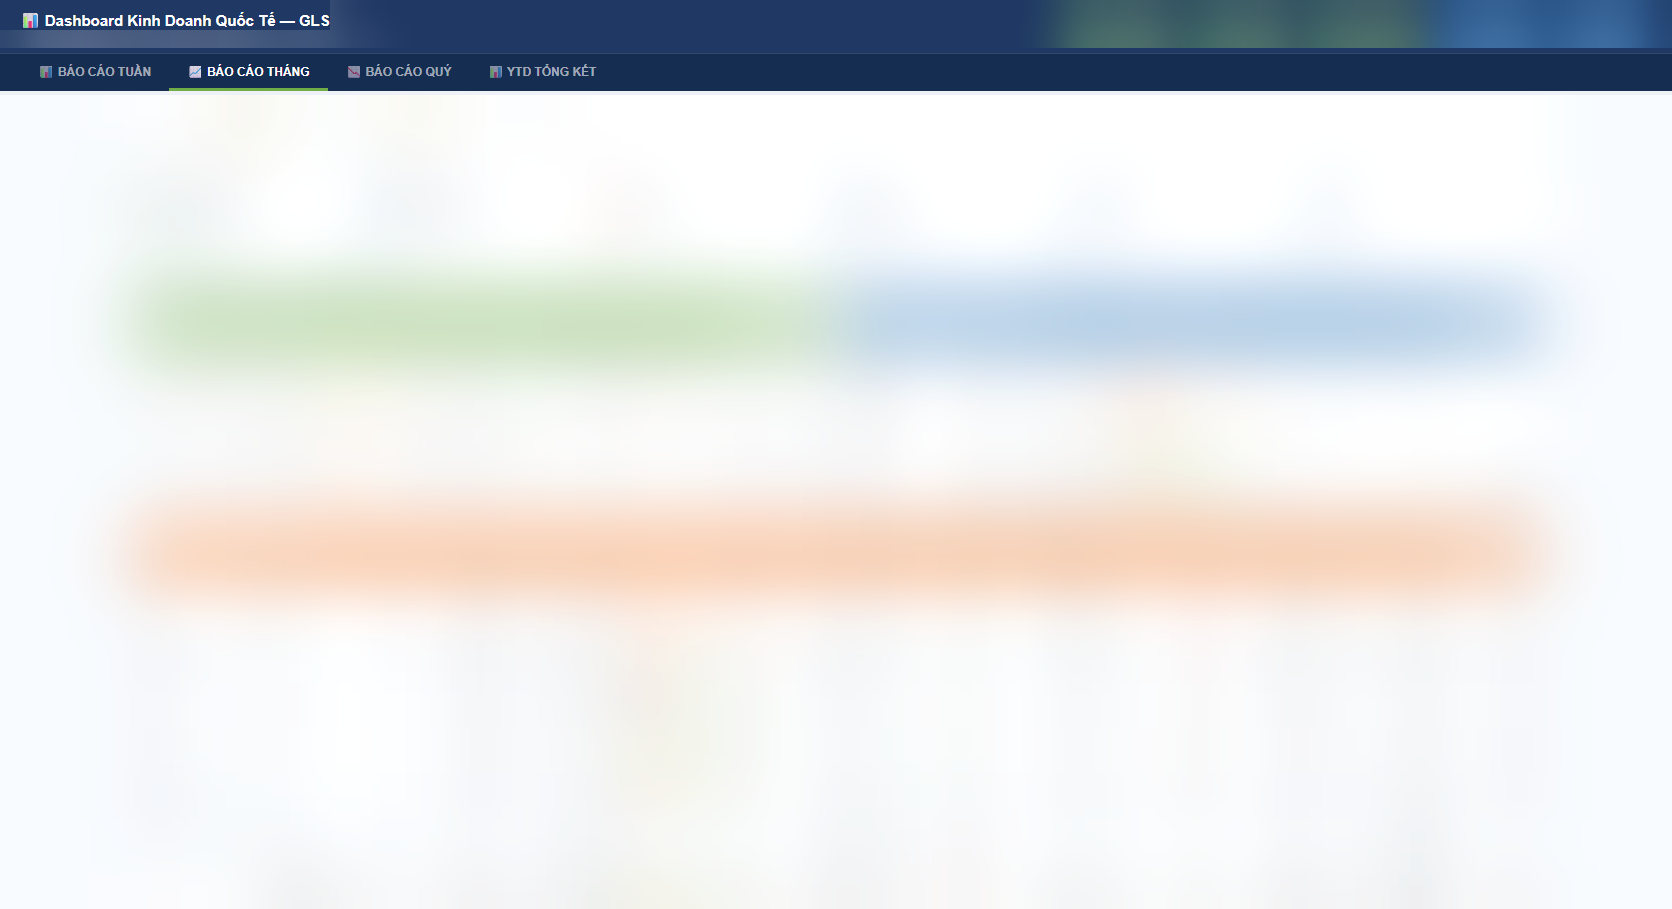
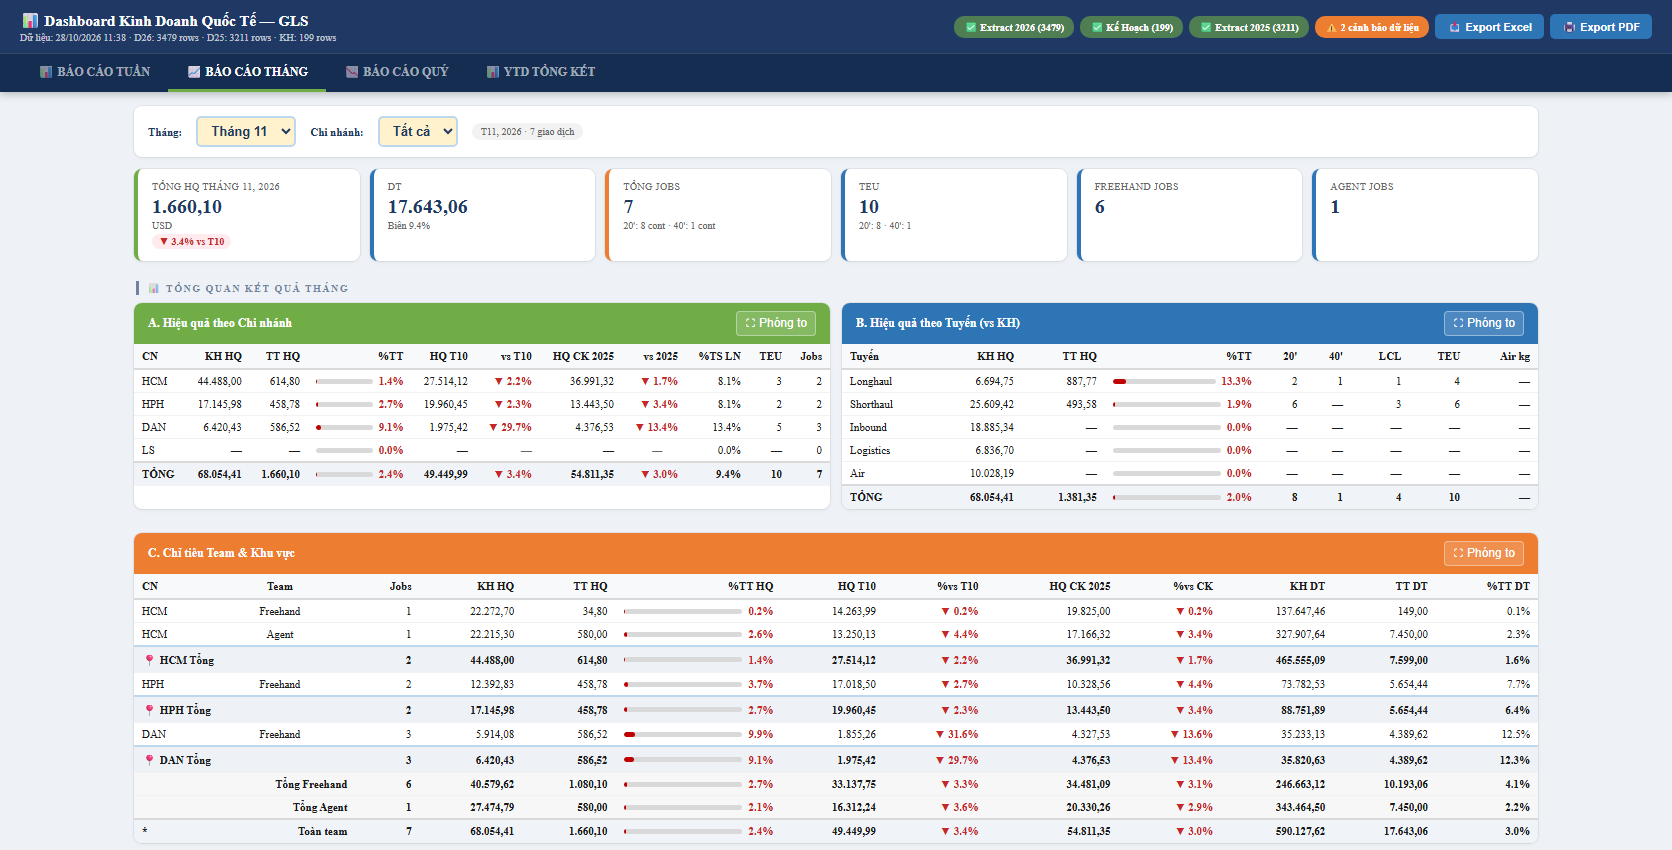
Use real dashboard screenshots and drop confidentiality labels
- Replace blurred dashboard images with real weekly, monthly and YTD screenshots
- Remove Confidential and blurred notices, show images uncropped
- Fix YTD description to match the current dashboard

diff --git a/project/index.html b/project/index.html
@@ -262,20 +262,18 @@ In conclusion, the application of <strong>XGBoost</strong> helps to:
                 cover: "../assets/image/covers/cover-gls.jpg",
                 subtitle: "One dashboard replaced a weekly PowerPoint routine for the International department: weekly, monthly and year-to-date sales by branch, route, salesman and agent, refreshed from a single export.",
                 tags: ["Python", "Google Sheets API", "Google Colab", "HTML/CSS/JS"],
-                imageCaption: "Weekly report view. Figures are blurred for confidentiality.",
+                imageCaption: "Weekly report view.",
                 highlights: [["~1 day → ~2 h", "Time to produce the weekly report, before and after."], ["20+", "Report tables, all built from shared metric definitions."], ["~2 weeks", "From first export to delivery, 24/07 to 05/08/2026."], ["Accepted", "Reviewed and formally accepted by the department."]],
                 conclusionTitle: "Strengths and limitations",
                 
                 title: 'Weekly sales dashboard for the International department',
                 image: '../project image 3/dashboard-weekly-view.png',
-                confidentialImages: true,
                 description: `
                     <div class="executive-summary">
                         <h3 style="color: var(--accent); margin-bottom: 1.5rem; font-size: 2.2rem; font-family: var(--font-display);"><i class="fas fa-gauge-high" style="margin-right: 1rem;"></i> Executive Summary</h3>
                         <p style="font-size: 1.6rem; line-height: 1.8; color: var(--muted); margin-bottom: 1.5rem;">Built and delivered a standalone reporting dashboard for the International department at <strong>Global Logistics Service Co., Ltd (GLS)</strong>, covering weekly, monthly, and Year-to-Date (YTD) sales performance across branches, trade routes, salemen, and agents. Acted as the <strong>Data Analyst</strong> on the project: cleaning, metrics, automation and the dashboard itself.</p>
                         <p style="font-size: 1.6rem; line-height: 1.8; color: var(--muted); margin-bottom: 0;"><strong>Timeframe:</strong> 24/07/2026 – 05/08/2026 (~2 weeks, end-to-end) &nbsp;|&nbsp; <strong>Tools used:</strong> Google Sheets, Google Colab, Python (automation, Google API), HTML/CSS/JS (standalone dashboard)</p>
                     </div>
-                    <p style="font-size: 1.4rem; color: var(--muted); font-style: italic;">Note: the screenshots below are from the real, delivered dashboard. All figures, names, and other business-sensitive details have been blurred for confidentiality — only the interface and structure are shown.</p>
                 `,
                 databaseSectionTitle: 'Data collection and cleaning',
                 analysisSectionTitle: 'Dashboard architecture and build',
@@ -380,7 +378,7 @@ Every data refresh follows the same checklist before being handed off:
 </ul>
 
 <strong style="font-size: 2.0rem; color: var(--accent); display: inline-block; margin-bottom: 1rem; margin-top: 2rem;"><i class="fas fa-hand-pointer" style="margin-right: 0.8rem;"></i>Try It Yourself — Interactive Demo</strong><br>
-<p style="margin-bottom: 1rem;">Since the real dashboard's figures are blurred above for confidentiality, here's a small working recreation of its filtering logic — built with the same vanilla-JS approach, using <strong>entirely fictional sample data</strong> (not GLS's real numbers) so you can see the interaction itself. Pick a branch and a week:</p>
+<p style="margin-bottom: 1rem;">Here is a small working recreation of its filtering logic, built the same way with plain JavaScript and <strong>sample data</strong> so you can try the interaction. Pick a branch and a week:</p>
 <div id="gls-demo" class="panel" style="background:var(--card); border:0.15rem solid var(--line); border-radius:1.6rem; padding:2rem;">
     <div style="display:flex; flex-wrap:wrap; gap:1.5rem; margin-bottom:1.5rem;">
         <div>
@@ -412,19 +410,19 @@ Every data refresh follows the same checklist before being handed off:
 <strong style="font-size: 2.0rem; color: var(--accent); display: inline-block; margin-bottom: 1rem; margin-top: 2rem;"><i class="fas fa-calendar-week" style="margin-right: 0.8rem;"></i>Weekly Report View</strong><br>
 Users pick a week and branch from the filter bar; KPI cards and every table below refresh instantly. Branch performance (green header) and route efficiency vs. plan (blue header) sit side by side, with team/region targets (orange header) further down.`,
                 analysisImage: `../project image 3/dashboard-weekly-view.png`,
-                analysisText2: `<p class="table-caption" style="margin-top: -1rem;">Weekly report view — figures blurred for confidentiality.</p>
+                analysisText2: `<p class="table-caption" style="margin-top: -1rem;">Weekly report view.</p>
 <strong style="font-size: 2.0rem; color: var(--accent); display: inline-block; margin-bottom: 1rem; margin-top: 1rem;"><i class="fas fa-calendar-days" style="margin-right: 0.8rem;"></i>Monthly Report View</strong><br>
 Same structure as the Weekly tab, with an added comparison against the previous month and against the same month last year — useful for spotting seasonal shifts.`,
                 analysisImage2: `../project image 3/dashboard-monthly-view.png`,
-                analysisText3: `<p class="table-caption" style="margin-top: -1rem;">Monthly report view — figures blurred for confidentiality.</p>
+                analysisText3: `<p class="table-caption" style="margin-top: -1rem;">Monthly report view.</p>
 <strong style="font-size: 2.0rem; color: var(--accent); display: inline-block; margin-bottom: 1rem; margin-top: 1rem;"><i class="fas fa-chart-simple" style="margin-right: 0.8rem;"></i>YTD Summary Navigator</strong><br>
-The Year-to-Date tab organizes 7 cumulative charts (efficiency by saleman, revenue by branch, margin trends, and more) behind an expandable card grid, keeping the page light until a specific chart is opened.`,
+The Year-to-Date tab accumulates the year month by month: efficiency, revenue and margin by branch, file counts, GFS and LSIP totals, and the commodity mix per branch.`,
                 analysisImage3: `../project image 3/dashboard-ytd-view.png`,
-                analysisText4: `<p class="table-caption" style="margin-top: -1rem;">YTD summary tab — chart contents open on demand.</p>
+                analysisText4: `<p class="table-caption" style="margin-top: -1rem;">YTD summary tab.</p>
 <strong style="font-size: 2.0rem; color: var(--accent); display: inline-block; margin-bottom: 1rem; margin-top: 1.5rem;"><i class="fas fa-lightbulb" style="margin-right: 0.8rem;"></i>What the Dashboard Enables</strong><br>
 Beyond just displaying numbers, the dashboard was designed to support real decision-making for the International team — continuous performance tracking, customer trend visibility, and target tracking per saleman, detailed further below.`,
                 modelingTitle: `Insights and analytical approach`,
-                modelingText: `<p>The value of this project wasn't just building tables — it was structuring the data so that patterns which were invisible in a static monthly PowerPoint became visible every week. A few examples of the analytical lenses the dashboard applies (illustrative, figures blurred):</p>
+                modelingText: `<p>The value of this project wasn't just building tables — it was structuring the data so that patterns which were invisible in a static monthly PowerPoint became visible every week. A few examples of the analytical lenses the dashboard applies (illustrative):</p>
 <ul>
     <li><strong>Branch × route cross-analysis:</strong> a branch hitting its overall revenue plan can still be masking a weak trade route underneath it — table B (Efficiency by Route) is built specifically so a branch total is never taken at face value; it's cross-checked against its route mix.</li>
     <li><strong>Target-attainment gap analysis:</strong> by placing "actual vs. plan," "vs. last period," and "vs. same period last year" side by side, it becomes possible to tell apart three very different situations that look identical from a single revenue number alone: a genuine slowdown, normal seasonality, or a temporary dip against an unusually strong prior period.</li>

diff --git a/style.css b/style.css
@@ -148,7 +148,7 @@ section { padding: clamp(6rem, 9vw, 11rem) 0 0; }
 .case-featured .case-body { flex: 1 1 0; justify-content: center; }
 .case-cover { position: absolute; inset: 0; width: 100%; height: 100%; object-fit: cover; transition: transform .8s ease; }
 .case-thumb::after { content: ""; position: absolute; inset: 0; background: linear-gradient(135deg, rgba(6, 40, 41, .62) 0%, rgba(6, 40, 41, .18) 55%, rgba(6, 40, 41, .05) 100%); pointer-events: none; }
-.case-shot { position: absolute; z-index: 1; left: 7%; bottom: -10%; width: 66%; border-radius: 1.2rem 1.2rem 0 0; overflow: hidden; border: 1px solid rgba(255, 255, 255, .55); box-shadow: 0 2.4rem 5rem rgba(0, 0, 0, .35); background: #fff; transform: rotate(-2.2deg); transform-origin: left bottom; transition: transform .45s ease; }
+.case-shot { position: absolute; z-index: 1; left: 7%; bottom: 8%; width: 64%; border-radius: 1.2rem; overflow: hidden; border: 1px solid rgba(255, 255, 255, .55); box-shadow: 0 2.4rem 5rem rgba(0, 0, 0, .35); background: #fff; transform: rotate(-2.2deg); transform-origin: left bottom; transition: transform .45s ease; }
 .case-shot img { display: block; width: 100%; height: auto; }
 .case:hover .case-cover { transform: scale(1.05); }
 .case:hover .case-shot { transform: rotate(0deg) translateY(-1.4rem); }
@@ -369,7 +369,7 @@ section { padding: clamp(6rem, 9vw, 11rem) 0 0; }
 
 figure.shot { margin: 2.6rem 0 3.2rem; }
 figure.shot img { display: block; max-width: 100%; width: auto; height: auto; margin: 0 auto; border-radius: 1.2rem; border: 1px solid var(--line); background: #fff; cursor: zoom-in; }
-figure.shot img.main-img { width: 100%; max-height: 46rem; object-fit: cover; object-position: top; }
+figure.shot img.main-img { width: 100%; height: auto; max-height: none; object-fit: contain; }
 figure.shot .confidential-frame { margin: 0; }
 figure.shot .confidential-frame img { width: 100%; }
 figure.shot figcaption { margin-top: 1.2rem; font-size: 1.35rem; color: var(--muted); text-align: center; }

diff --git a/index.html b/index.html
@@ -112,8 +112,7 @@
                     <a class="case case-featured reveal" href="./project/index.html?id=gls-dashboard">
                         <div class="case-thumb">
                             <img class="case-cover" src="./assets/image/covers/cover-gls.jpg" alt="" decoding="async">
-                            <div class="case-shot"><img src="./project image 3/dashboard-weekly-view.png" alt="Weekly view of the International department dashboard, with figures blurred" decoding="async"></div>
-                            <span class="case-lock"><i class="fas fa-lock" aria-hidden="true"></i>Figures blurred</span>
+                            <div class="case-shot"><img src="./project image 3/dashboard-weekly-view.png" alt="Weekly view of the International department dashboard" decoding="async"></div>
                         </div>
                         <div class="case-body">
                             <div class="case-kicker">Work project · 2026</div>
